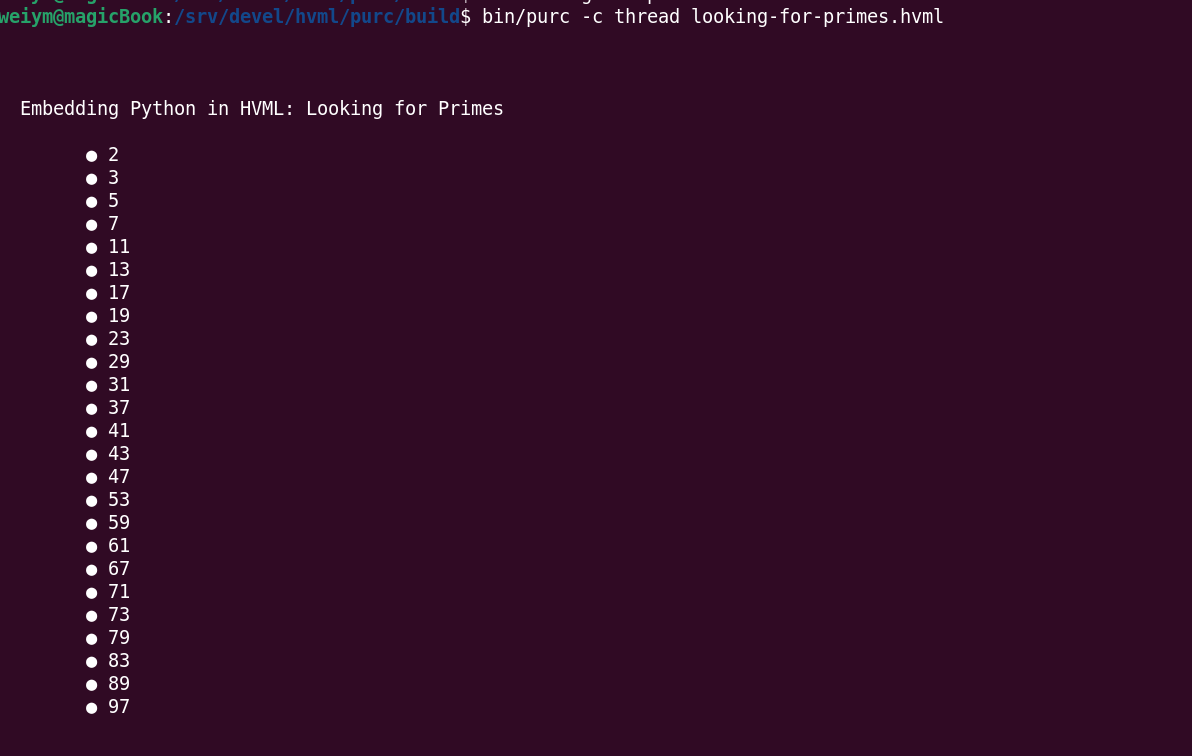
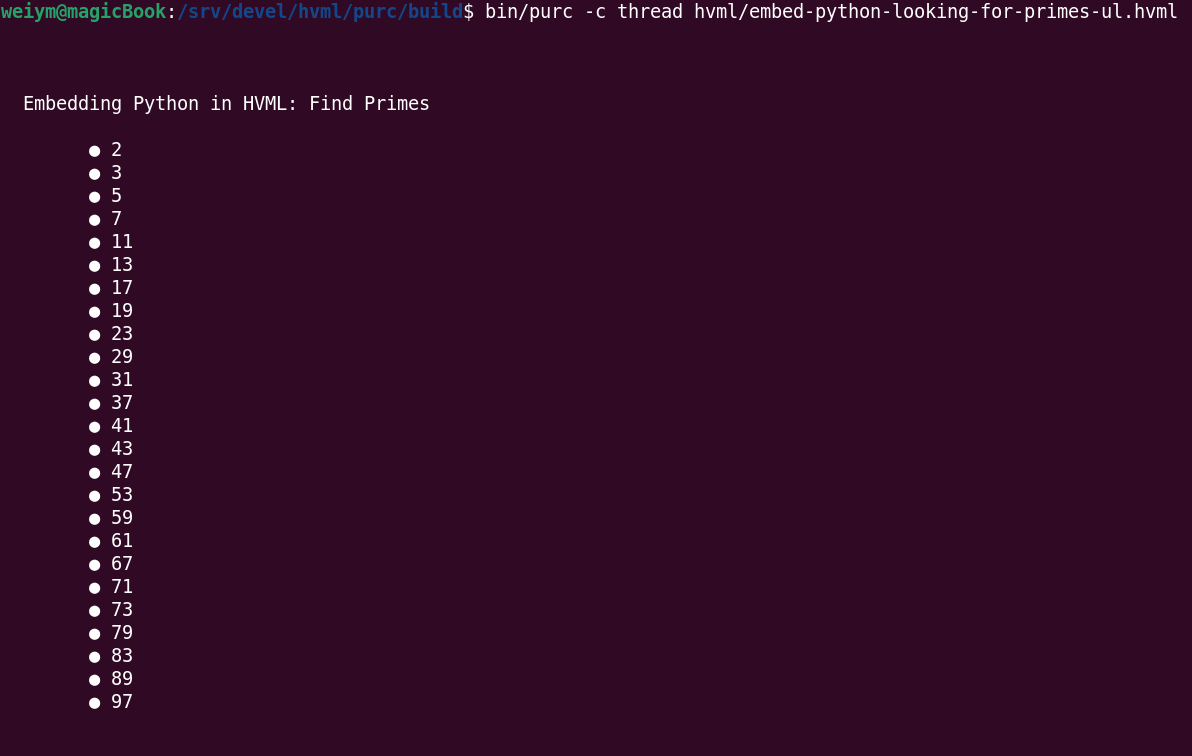
update screenshot

Changed region(s): [[0.0621, 0.1825, 0.1242, 0.9431], [0.0, 0.0, 0.9933, 0.0304], [0.0, 0.1217, 0.4346, 0.1521]]

diff --git a/en/embed-python-in-hvml-program-en.md b/en/embed-python-in-hvml-program-en.md
@@ -329,7 +329,7 @@ Now, we try to embed this function in HVML and use the HTML `ul` and `li` elemen
 <!DOCTYPE hvml SYSTEM "f: PY">
 <hvml target="html">
      <head>
-         <title>Embedded Python in HVML: Find Primes</title>
+         <title>Embedding Python in HVML: Find Primes</title>
      </head>
 
      <body>
@@ -519,7 +519,7 @@ Below is the complete source code of the program, please read the comments to un
 <!DOCTYPE hvml SYSTEM "f: PY">
 <hvml target="html">
      <head>
-         <title>Embedded Python in HVML: Animated 3D Random Walk</title>
+         <title>Embedding Python in HVML: Animated 3D Random Walk</title>
 
          <!-- Import Bootstrap 5.1 resources built into the renderer -->
          <link rel="stylesheet" href="//localhost/_renderer/_builtin/-/assets/bootstrap-5.1.3-dist/css/bootstrap.min.css" />
